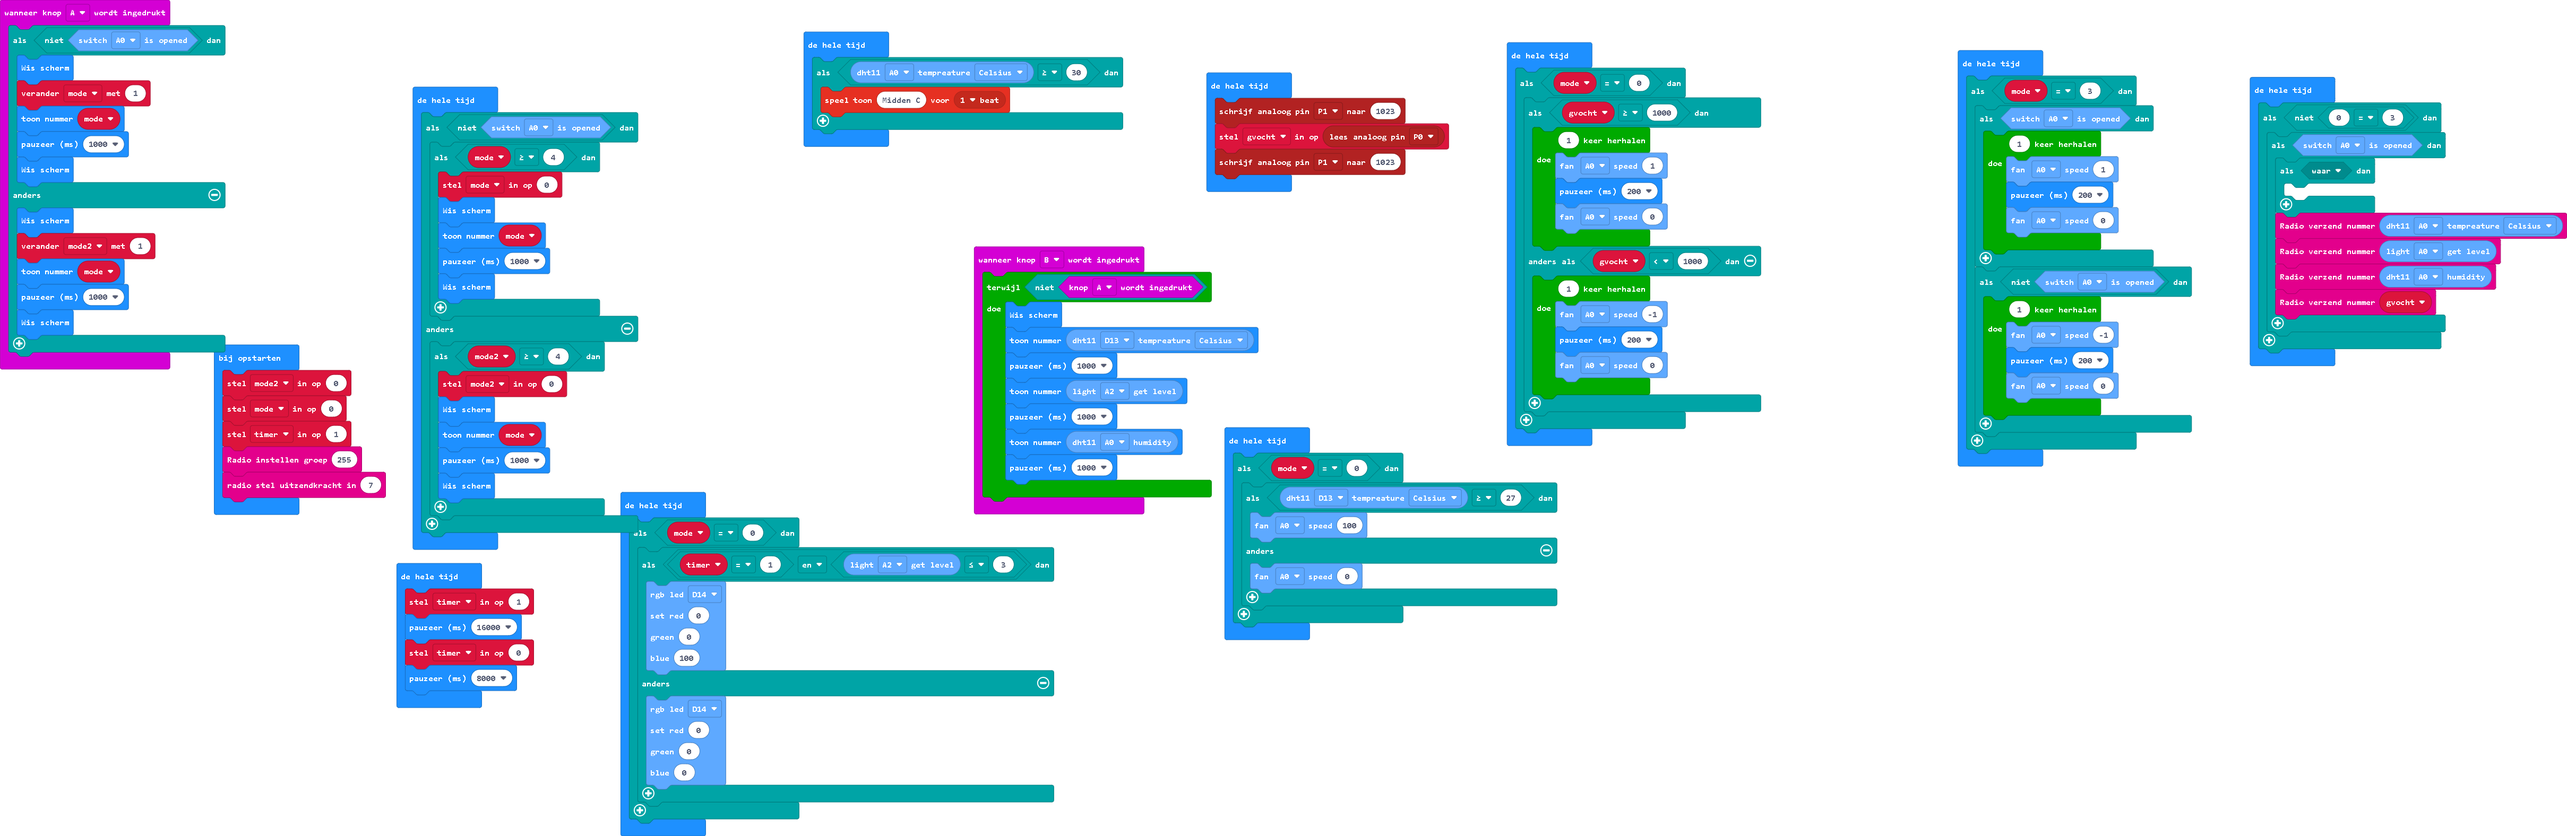
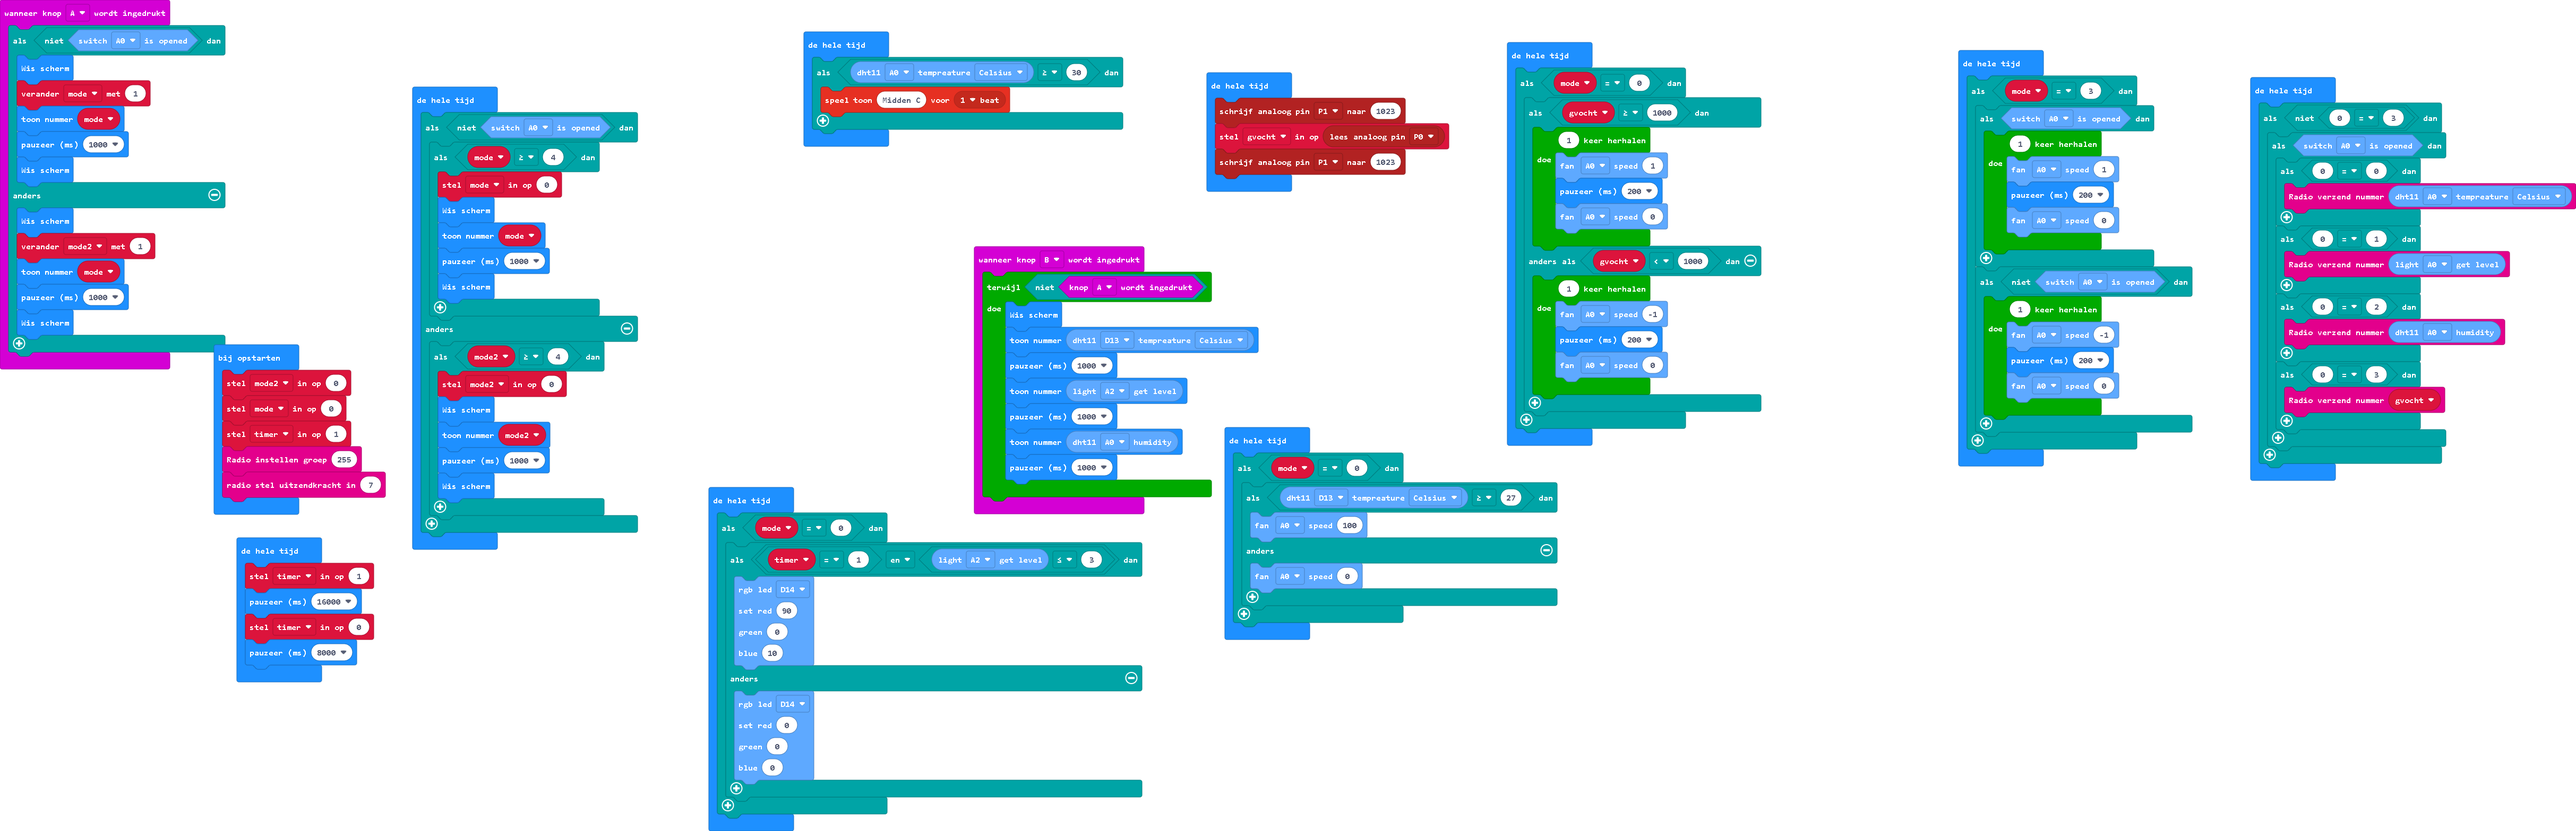
main.blocks, main.ts bijwerken

diff --git a/main.ts b/main.ts
@@ -49,7 +49,7 @@ basic.forever(function () {
         if (mode2 >= 4) {
             mode2 = 0
             basic.clearScreen()
-            basic.showNumber(mode)
+            basic.showNumber(mode2)
             basic.pause(1000)
             basic.clearScreen()
         }
@@ -98,13 +98,18 @@ basic.forever(function () {
 basic.forever(function () {
     if (!((0 as any) == (3 as any))) {
         if (minode.switchIsOpened(ConnName.A0)) {
-            if (true) {
-            	
+            if (0 == 0) {
+                radio.sendNumber(minode.DHTGetTemperature(ConnName.A0, DHTTemStyle.MINODE_DHT_CELSIUS))
             }
-            radio.sendNumber(minode.DHTGetTemperature(ConnName.A0, DHTTemStyle.MINODE_DHT_CELSIUS))
-            radio.sendNumber(minode.LightSensorGetLevel(AnalogConnName.Analog_A0))
-            radio.sendNumber(minode.DHTGetHumidity(ConnName.A0))
-            radio.sendNumber(gvocht)
+            if ((0 as any) == (1 as any)) {
+                radio.sendNumber(minode.LightSensorGetLevel(AnalogConnName.Analog_A0))
+            }
+            if ((0 as any) == (2 as any)) {
+                radio.sendNumber(minode.DHTGetHumidity(ConnName.A0))
+            }
+            if ((0 as any) == (3 as any)) {
+                radio.sendNumber(gvocht)
+            }
         }
     }
 })
@@ -122,9 +127,9 @@ basic.forever(function () {
         if (timer == 1 && minode.LightSensorGetLevel(AnalogConnName.Analog_A2) <= 3) {
             minode.RGBSetColor(
             ConnName.D14,
+            90,
             0,
-            0,
-            100
+            10
             )
         } else {
             minode.RGBSetColor(
